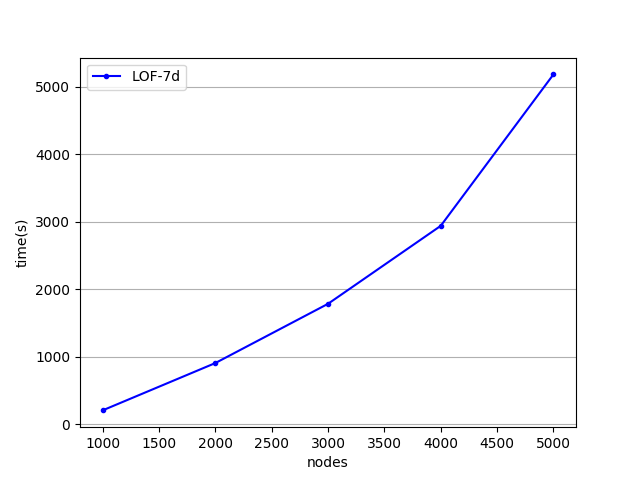
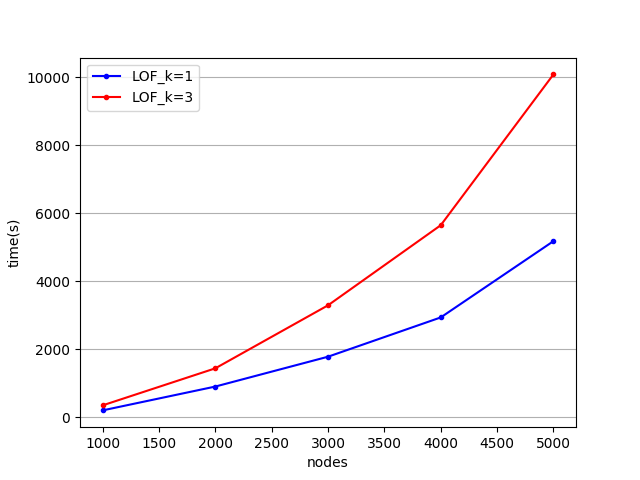
plot

diff --git a/pltTime.py b/pltTime.py
@@ -21,6 +21,7 @@ t1000 = 208.134000063
 def plotLOF():
     x = [1000, 2000, 3000, 4000, 5000]
     y = [208.134000063, 908.773000002, 1786.24199986, 2940.92799997, 5183.4059999]
+    y1 = [355.562999964,1444.28500009,3296.91100001, 5650.85800004,10085.003]
     # ax = plt.subplot(1,1,1)
     ax = plt.subplot(111)
     # ax.xaxis.set_major_locator(xmajorLocator)
@@ -29,9 +30,11 @@ def plotLOF():
     ax.yaxis.grid(True, which='major')  # x坐标轴的网格使用主刻度
 
     # plt.plot(x, y, color="blue", linestyle="-", label="cosine")
-    line1 = ax.plot(x, y, 'b.-')
-    ax.legend(line1, ('LOF-7d',))  # 多加一个逗号
-    # title("a strait line")
+    line1 = ax.plot(x, y, 'b.-',label="LOF_k=1")
+    line2 = ax.plot(x, y1, 'r.-',label="LOF_k=3")
+    plt.legend(loc='upper left')
+    # ax.legend(line1, ('LOF-7d',))  # 多加一个逗号
+    # plt.title("Lof Detection Time")
     plt.xlabel("nodes")
     plt.ylabel("time(s)")
     plt.show()
@@ -42,6 +45,7 @@ def plotFeatureExtract():
     x2 = [i*1.0/10000 for i in x]
     y = [63,125,278,579,2683]
     t = [0.451,0.575,0.610,0.912,1.394]
+    t1 = [0.161,0.314,0.316,0.941,3.589]
     # ax = plt.subplot(1,1,1)
     ax = plt.subplot(1,2,1)
     # ax.xaxis.set_major_locator(xmajorLocator)
@@ -68,12 +72,14 @@ def plotFeatureExtract():
     ax.yaxis.grid(True, which='major')  # x坐标轴的网格使用主刻度
 
     #plt.plot(x, y, color="blue", linestyle="-", label="cosine")
-    line1 = ax.plot(x2, t, 'b.',label="Classification Time")
+    line1 = ax.plot(x2, t, 'b.',label="GBKD-Forest Classification")
+    # line3 = ax.plot(x2,t1,'bx',label="SVM Classification")
     # ax.legend(line1, ('Classification Time',))  # 多加一个逗号
     # title("a strait line")
     x1 = [ i for i in range(0,5) ]
     y1 = [0.28*i +0.3397 for i in range(0,5) ]
     line2 = ax.plot(x1,y1,'r-',label="y=0.28x+0.3397")
+    #line4 = ax.plot(x1, y2, 'b-', label="y=0.4288x^2-0.7467x+0.5277")
     plt.legend(loc='upper left')
     plt.xlabel("Nodes(10k)")
     plt.ylabel("Time(s)")
@@ -116,10 +122,12 @@ def plotPrecision():
     plt.ylim([0.0, 1.05])
     plt.xlabel('Recall')
     plt.ylabel('Precision')
-    plt.title('Precision-Recall curve')
+    plt.title('Precision-Recall curve of GBKD-Forest')
     plt.legend(loc="lower right")
     plt.show()
 
 
 if __name__=="__main__":
-    plotPrecision()
+    #plotPrecision()
+    #plotLOF()
+    plotFeatureExtract()

diff --git a/svm.py b/svm.py
@@ -1,0 +1,52 @@
+#coding=utf-8
+from sklearn import svm
+import numpy as np
+from sklearn.model_selection import train_test_split
+import matplotlib.pyplot as plt
+import time
+from sklearn.metrics import *
+from sklearn import preprocessing
+
+if __name__ == '__main__':
+    t1 = time.time()
+    # 读取特征
+    featurePath = ".//feature//" + "facebook400"
+    labelPath = ".//feature//" + "facebook400label"
+    data = np.loadtxt(featurePath)
+    target = np.loadtxt(labelPath)
+    for i in range(len(target)):
+        if target[i] == 1:
+            target[i] = 0
+        else:
+            target[i] = 1
+    data = np.delete(data, 3, axis=1)
+    print data.shape
+    feature_names = ["InDegree", "OutDegree", "PageRank", "Closeness", "Hubs", "Authority", "Eccentricity", "EgoOutD",
+                     "EgoNodes", "EgoEdges"]
+    target_names = ["normal", "anomaly"]
+    # 正则化特征
+    print "MinMaxScaler..."
+    min_max_scaler = preprocessing.MinMaxScaler()
+    data = min_max_scaler.fit_transform(data)
+    # print data
+
+    # 分类
+    print "train_test_split..."
+    X_train, X_test, y_train, y_test = train_test_split(data, target, test_size=0.6, random_state=10)
+    clf = svm.SVC()
+    clf.fit(X_train,y_train)
+    y_pred = clf.predict(X_test)
+    score = clf.score(X_test,y_test)
+
+    t2 = time.time()
+    print average_precision_score(y_test,y_pred)
+    print accuracy_score(y_test, y_pred)
+    print recall_score(y_test, y_pred, average='binary')
+    print f1_score(y_test, y_pred, average='binary')
+    fpr, tpr, thresholds = roc_curve(y_test, y_pred, pos_label=1)
+    # print fpr,tpr
+    # plt.plot(fpr,tpr,'-')
+    # plt.show()
+    # print fpr,tpr
+    print auc(fpr, tpr)
+    print "time:",t2-t1
